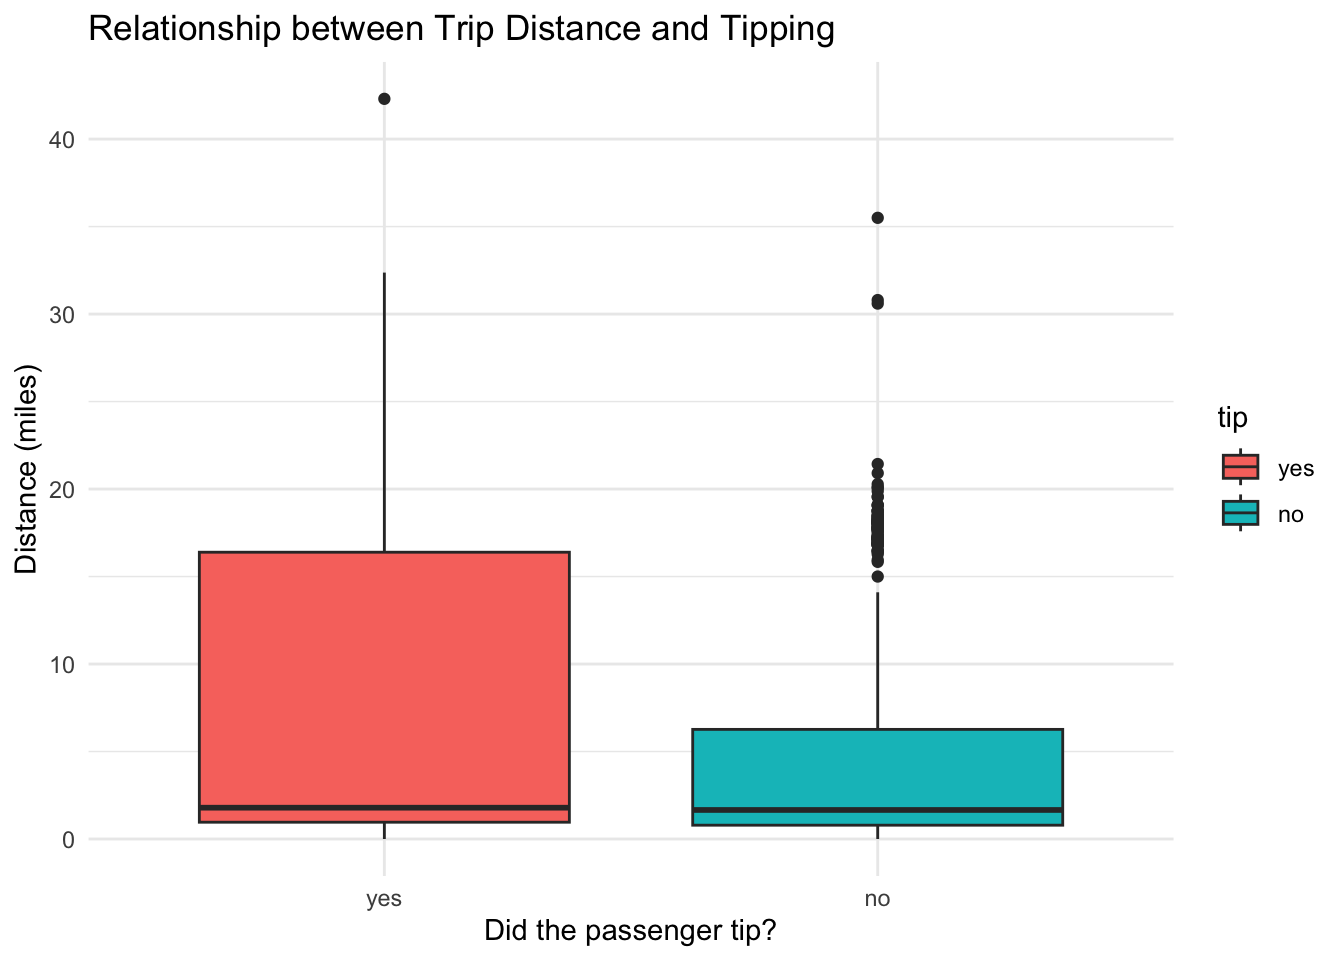
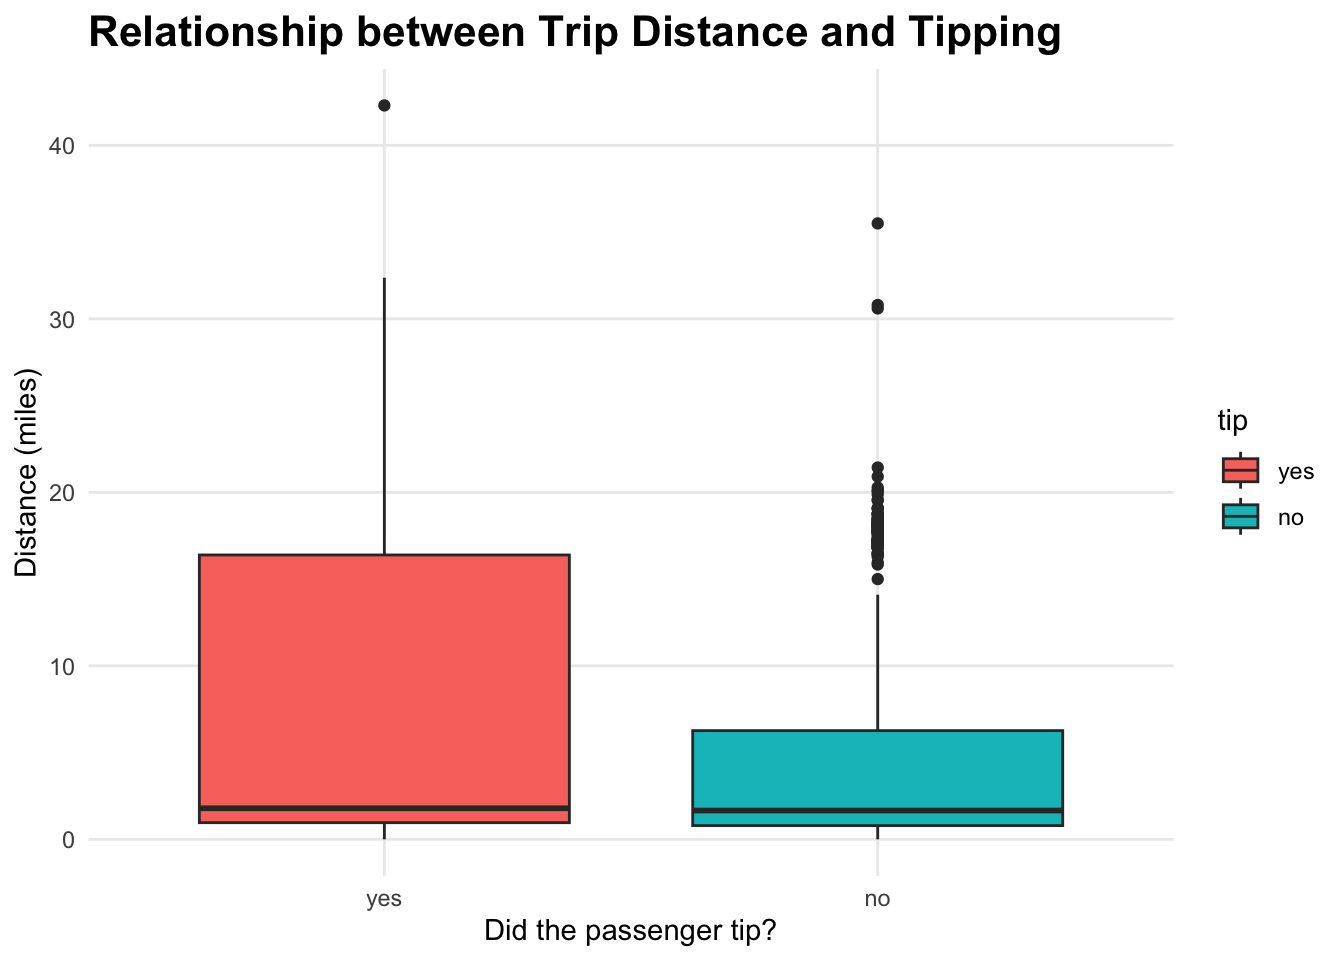
updating analysis of 2nd question

diff --git a/index.html b/index.html
@@ -154,7 +154,11 @@ $ hour     &lt;int&gt; 16, 8, 18, 8, 21, 23, 12, 6, 12, 14, 18, 11, 12, 19, 17, 
 <span id="cb5-4"><a href="#cb5-4" aria-hidden="true" tabindex="-1"></a>  <span class="fu">labs</span>(<span class="at">title =</span> <span class="st">"Relationship between Trip Distance and Tipping"</span>,</span>
 <span id="cb5-5"><a href="#cb5-5" aria-hidden="true" tabindex="-1"></a>       <span class="at">x =</span> <span class="st">"Did the passenger tip?"</span>,</span>
 <span id="cb5-6"><a href="#cb5-6" aria-hidden="true" tabindex="-1"></a>       <span class="at">y =</span> <span class="st">"Distance (miles)"</span>) <span class="sc">+</span></span>
-<span id="cb5-7"><a href="#cb5-7" aria-hidden="true" tabindex="-1"></a>  <span class="fu">theme_minimal</span>()</span></code><button title="Copy to Clipboard" class="code-copy-button"><i class="bi"></i></button></pre></div>
+<span id="cb5-7"><a href="#cb5-7" aria-hidden="true" tabindex="-1"></a>  <span class="fu">theme_minimal</span>() <span class="sc">+</span></span>
+<span id="cb5-8"><a href="#cb5-8" aria-hidden="true" tabindex="-1"></a>  <span class="fu">theme</span>(</span>
+<span id="cb5-9"><a href="#cb5-9" aria-hidden="true" tabindex="-1"></a>    <span class="at">panel.grid.minor =</span> <span class="fu">element_blank</span>(),</span>
+<span id="cb5-10"><a href="#cb5-10" aria-hidden="true" tabindex="-1"></a>    <span class="at">plot.title =</span> <span class="fu">element_text</span>(<span class="at">face =</span> <span class="st">"bold"</span>, <span class="at">size =</span> <span class="dv">16</span>)</span>
+<span id="cb5-11"><a href="#cb5-11" aria-hidden="true" tabindex="-1"></a>  )</span></code><button title="Copy to Clipboard" class="code-copy-button"><i class="bi"></i></button></pre></div>
 <div class="cell-output-display">
 <div>
 <figure class="figure">
@@ -163,33 +167,87 @@ $ hour     &lt;int&gt; 16, 8, 18, 8, 21, 23, 12, 6, 12, 14, 18, 11, 12, 19, 17, 
 </div>
 </div>
 <div class="sourceCode cell-code" id="cb6"><pre class="sourceCode r code-with-copy"><code class="sourceCode r"><span id="cb6-1"><a href="#cb6-1" aria-hidden="true" tabindex="-1"></a><span class="co"># Summary Table</span></span>
-<span id="cb6-2"><a href="#cb6-2" aria-hidden="true" tabindex="-1"></a>mean_median_distance_tipping <span class="ot">&lt;-</span> taxi <span class="sc">%&gt;%</span></span>
-<span id="cb6-3"><a href="#cb6-3" aria-hidden="true" tabindex="-1"></a>  <span class="fu">group_by</span>(tip) <span class="sc">%&gt;%</span></span>
+<span id="cb6-2"><a href="#cb6-2" aria-hidden="true" tabindex="-1"></a>mean_median_distance_tipping <span class="ot">&lt;-</span> taxi <span class="sc">|&gt;</span></span>
+<span id="cb6-3"><a href="#cb6-3" aria-hidden="true" tabindex="-1"></a>  <span class="fu">group_by</span>(tip) <span class="sc">|&gt;</span></span>
 <span id="cb6-4"><a href="#cb6-4" aria-hidden="true" tabindex="-1"></a>  <span class="fu">summarize</span>(<span class="at">mean_dist =</span> <span class="fu">mean</span>(distance, <span class="at">na.rm =</span> <span class="cn">TRUE</span>),</span>
 <span id="cb6-5"><a href="#cb6-5" aria-hidden="true" tabindex="-1"></a>            <span class="at">median_dist =</span> <span class="fu">median</span>(distance, <span class="at">na.rm =</span> <span class="cn">TRUE</span>),</span>
-<span id="cb6-6"><a href="#cb6-6" aria-hidden="true" tabindex="-1"></a>            <span class="at">n =</span> <span class="fu">n</span>())</span>
-<span id="cb6-7"><a href="#cb6-7" aria-hidden="true" tabindex="-1"></a></span>
-<span id="cb6-8"><a href="#cb6-8" aria-hidden="true" tabindex="-1"></a><span class="co"># Assigning values</span></span>
-<span id="cb6-9"><a href="#cb6-9" aria-hidden="true" tabindex="-1"></a>mean_distance_y <span class="ot">&lt;-</span> mean_median_distance_tipping <span class="sc">|&gt;</span> <span class="fu">filter</span>(tip <span class="sc">==</span> <span class="st">"yes"</span>) <span class="sc">|&gt;</span> <span class="fu">pull</span>(mean_dist)</span>
-<span id="cb6-10"><a href="#cb6-10" aria-hidden="true" tabindex="-1"></a>mean_distance_n <span class="ot">&lt;-</span>mean_median_distance_tipping <span class="sc">|&gt;</span> <span class="fu">filter</span>(tip <span class="sc">==</span> <span class="st">"no"</span>) <span class="sc">|&gt;</span> <span class="fu">pull</span>(mean_dist)</span>
-<span id="cb6-11"><a href="#cb6-11" aria-hidden="true" tabindex="-1"></a>med_dist_y <span class="ot">&lt;-</span>mean_median_distance_tipping <span class="sc">|&gt;</span> <span class="fu">filter</span>(tip <span class="sc">==</span> <span class="st">"yes"</span>) <span class="sc">|&gt;</span> <span class="fu">pull</span>(median_dist)</span>
-<span id="cb6-12"><a href="#cb6-12" aria-hidden="true" tabindex="-1"></a>med_dist_n <span class="ot">&lt;-</span>mean_median_distance_tipping <span class="sc">|&gt;</span> <span class="fu">filter</span>(tip <span class="sc">==</span> <span class="st">"no"</span>) <span class="sc">|&gt;</span> <span class="fu">pull</span>(median_dist)</span></code><button title="Copy to Clipboard" class="code-copy-button"><i class="bi"></i></button></pre></div>
+<span id="cb6-6"><a href="#cb6-6" aria-hidden="true" tabindex="-1"></a>            <span class="at">n =</span> <span class="fu">n</span>())</span></code><button title="Copy to Clipboard" class="code-copy-button"><i class="bi"></i></button></pre></div>
 </div>
 <section id="analysis-of-distance-vs.-tipping" class="level3">
 <h3 class="anchored" data-anchor-id="analysis-of-distance-vs.-tipping">Analysis of Distance vs.&nbsp;Tipping</h3>
 <p>There is a linear relationship between the distance traveled and whether a passenger tips for longer distances.</p>
 <ol type="1">
-<li><p><strong>Higher Average Distance:</strong> Passengers who tipped traveled an average of <strong>6.37 miles</strong>, which is nearly <strong>39.35% more</strong> than those who did not tip (<strong>4.57 miles</strong>).</p></li>
-<li><p><strong>The Median Gap:</strong> Compared to the means, the medians are much closer (<strong>1.79 v/s 1.66</strong>) . This suggests that the “yes” group (those who tipped) mostly travelled long trips (outliers) that drives the average up.</p></li>
-<li><p><strong>Initial Conclusion:</strong> Tipping appears more common on longer trips. This makes sense intuitively—passengers may feel that a longer commitment of the driver’s time warrants a tip, or the higher total fare makes a percentage-based tip feel more standard.</p></li>
+<li><p>Passengers who tipped traveled an average of <strong>6.37 miles</strong>, which is nearly <strong>39.35% more</strong> than those who did not tip (<strong>4.57 miles</strong>).</p></li>
+<li><p>Compared to the means, the medians are much closer (<strong>1.79 v/s 1.66</strong>) . This suggests that the “yes” group (those who tipped) mostly travelled long trips (outliers) that drives the average up.</p></li>
+<li><p>Therefore, tipping seems to be more common on longer trips.</p></li>
 </ol>
 </section>
 </section>
 <section id="do-taxi-passengers-tend-to-tip-more-for-the-company-chicago-independents-than-the-other-companies" class="level2">
 <h2 class="anchored" data-anchor-id="do-taxi-passengers-tend-to-tip-more-for-the-company-chicago-independents-than-the-other-companies">Do taxi passengers tend to tip more for the company Chicago Independents than the other companies?</h2>
-</section>
-<section id="section" class="level2">
-<h2 class="anchored" data-anchor-id="section"></h2>
+<div class="cell">
+<div class="sourceCode cell-code" id="cb7"><pre class="sourceCode r code-with-copy"><code class="sourceCode r"><span id="cb7-1"><a href="#cb7-1" aria-hidden="true" tabindex="-1"></a><span class="co"># 1. Calculate the overall city average rate (as a decimal)</span></span>
+<span id="cb7-2"><a href="#cb7-2" aria-hidden="true" tabindex="-1"></a>overall_rate <span class="ot">&lt;-</span> <span class="fu">mean</span>(taxi<span class="sc">$</span>tip <span class="sc">==</span> <span class="st">"yes"</span>)</span>
+<span id="cb7-3"><a href="#cb7-3" aria-hidden="true" tabindex="-1"></a></span>
+<span id="cb7-4"><a href="#cb7-4" aria-hidden="true" tabindex="-1"></a><span class="co"># 2. Calculate the tipping rate per company for the labels</span></span>
+<span id="cb7-5"><a href="#cb7-5" aria-hidden="true" tabindex="-1"></a>company_stats <span class="ot">&lt;-</span> taxi <span class="sc">|&gt;</span></span>
+<span id="cb7-6"><a href="#cb7-6" aria-hidden="true" tabindex="-1"></a>  <span class="fu">group_by</span>(company) <span class="sc">|&gt;</span></span>
+<span id="cb7-7"><a href="#cb7-7" aria-hidden="true" tabindex="-1"></a>  <span class="fu">summarize</span>(</span>
+<span id="cb7-8"><a href="#cb7-8" aria-hidden="true" tabindex="-1"></a>    <span class="at">total_rides =</span> <span class="fu">n</span>(),</span>
+<span id="cb7-9"><a href="#cb7-9" aria-hidden="true" tabindex="-1"></a>    <span class="at">yes_count =</span> <span class="fu">sum</span>(tip <span class="sc">==</span> <span class="st">"yes"</span>),</span>
+<span id="cb7-10"><a href="#cb7-10" aria-hidden="true" tabindex="-1"></a>    <span class="at">tip_rate =</span> yes_count <span class="sc">/</span> total_rides</span>
+<span id="cb7-11"><a href="#cb7-11" aria-hidden="true" tabindex="-1"></a>  )</span>
+<span id="cb7-12"><a href="#cb7-12" aria-hidden="true" tabindex="-1"></a></span>
+<span id="cb7-13"><a href="#cb7-13" aria-hidden="true" tabindex="-1"></a><span class="co"># 3. Create the Proportional Plot</span></span>
+<span id="cb7-14"><a href="#cb7-14" aria-hidden="true" tabindex="-1"></a><span class="fu">ggplot</span>(taxi, <span class="fu">aes</span>(<span class="at">y =</span> company, <span class="at">fill =</span> tip)) <span class="sc">+</span></span>
+<span id="cb7-15"><a href="#cb7-15" aria-hidden="true" tabindex="-1"></a>  <span class="co"># Create the proportional bars</span></span>
+<span id="cb7-16"><a href="#cb7-16" aria-hidden="true" tabindex="-1"></a>  <span class="fu">geom_bar</span>(<span class="at">position =</span> <span class="st">"fill"</span>) <span class="sc">+</span></span>
+<span id="cb7-17"><a href="#cb7-17" aria-hidden="true" tabindex="-1"></a>  <span class="co"># Add the tip rate labels onto each bar</span></span>
+<span id="cb7-18"><a href="#cb7-18" aria-hidden="true" tabindex="-1"></a>  <span class="fu">geom_text</span>(</span>
+<span id="cb7-19"><a href="#cb7-19" aria-hidden="true" tabindex="-1"></a>    <span class="at">data =</span> company_stats,</span>
+<span id="cb7-20"><a href="#cb7-20" aria-hidden="true" tabindex="-1"></a>    <span class="fu">aes</span>(<span class="at">y =</span> company, <span class="at">x =</span> <span class="fl">0.5</span>, <span class="at">label =</span> <span class="fu">percent</span>(tip_rate, <span class="at">accuracy =</span> <span class="fl">0.1</span>)),</span>
+<span id="cb7-21"><a href="#cb7-21" aria-hidden="true" tabindex="-1"></a>    <span class="at">inherit.aes =</span> <span class="cn">FALSE</span>,</span>
+<span id="cb7-22"><a href="#cb7-22" aria-hidden="true" tabindex="-1"></a>    <span class="at">color =</span> <span class="st">"white"</span>,</span>
+<span id="cb7-23"><a href="#cb7-23" aria-hidden="true" tabindex="-1"></a>    <span class="at">fontface =</span> <span class="st">"bold"</span>,</span>
+<span id="cb7-24"><a href="#cb7-24" aria-hidden="true" tabindex="-1"></a>    <span class="at">size =</span> <span class="dv">4</span></span>
+<span id="cb7-25"><a href="#cb7-25" aria-hidden="true" tabindex="-1"></a>  ) <span class="sc">+</span></span>
+<span id="cb7-26"><a href="#cb7-26" aria-hidden="true" tabindex="-1"></a>  <span class="co"># Add the vertical line for the city average</span></span>
+<span id="cb7-27"><a href="#cb7-27" aria-hidden="true" tabindex="-1"></a>  <span class="fu">geom_vline</span>(<span class="at">xintercept =</span> overall_rate, <span class="at">linetype =</span> <span class="st">"dashed"</span>, <span class="at">color =</span> <span class="st">"white"</span>, <span class="at">size =</span> <span class="dv">1</span>) <span class="sc">+</span></span>
+<span id="cb7-28"><a href="#cb7-28" aria-hidden="true" tabindex="-1"></a>  <span class="co"># Annotate the line with the numerical value</span></span>
+<span id="cb7-29"><a href="#cb7-29" aria-hidden="true" tabindex="-1"></a>  <span class="fu">annotate</span>(</span>
+<span id="cb7-30"><a href="#cb7-30" aria-hidden="true" tabindex="-1"></a>    <span class="st">"text"</span>, </span>
+<span id="cb7-31"><a href="#cb7-31" aria-hidden="true" tabindex="-1"></a>    <span class="at">x =</span> overall_rate, </span>
+<span id="cb7-32"><a href="#cb7-32" aria-hidden="true" tabindex="-1"></a>    <span class="at">y =</span> <span class="fl">0.5</span>, </span>
+<span id="cb7-33"><a href="#cb7-33" aria-hidden="true" tabindex="-1"></a>    <span class="at">label =</span> <span class="fu">paste0</span>(<span class="st">"City Average = "</span>, <span class="fu">percent</span>(overall_rate, <span class="at">accuracy =</span> <span class="fl">0.1</span>)),</span>
+<span id="cb7-34"><a href="#cb7-34" aria-hidden="true" tabindex="-1"></a>    <span class="at">color =</span> <span class="st">"black"</span>, </span>
+<span id="cb7-35"><a href="#cb7-35" aria-hidden="true" tabindex="-1"></a>    <span class="at">vjust =</span> <span class="sc">-</span><span class="fl">0.5</span>, </span>
+<span id="cb7-36"><a href="#cb7-36" aria-hidden="true" tabindex="-1"></a>    <span class="at">hjust =</span> <span class="sc">-</span><span class="fl">0.5</span>,</span>
+<span id="cb7-37"><a href="#cb7-37" aria-hidden="true" tabindex="-1"></a>    <span class="at">angle =</span> <span class="dv">90</span>,</span>
+<span id="cb7-38"><a href="#cb7-38" aria-hidden="true" tabindex="-1"></a>    <span class="at">fontface =</span> <span class="st">"bold"</span></span>
+<span id="cb7-39"><a href="#cb7-39" aria-hidden="true" tabindex="-1"></a>  ) <span class="sc">+</span></span>
+<span id="cb7-40"><a href="#cb7-40" aria-hidden="true" tabindex="-1"></a>  <span class="co"># Clean up scales and labels</span></span>
+<span id="cb7-41"><a href="#cb7-41" aria-hidden="true" tabindex="-1"></a>  <span class="fu">scale_x_continuous</span>(<span class="at">labels =</span> percent) <span class="sc">+</span></span>
+<span id="cb7-42"><a href="#cb7-42" aria-hidden="true" tabindex="-1"></a>  <span class="fu">scale_fill_manual</span>(<span class="at">values =</span> <span class="fu">c</span>(<span class="st">"no"</span> <span class="ot">=</span> <span class="st">"#E63946"</span>, <span class="st">"yes"</span> <span class="ot">=</span> <span class="st">"#2A9D8F"</span>)) <span class="sc">+</span> <span class="co"># Clean vector-style colors</span></span>
+<span id="cb7-43"><a href="#cb7-43" aria-hidden="true" tabindex="-1"></a>  <span class="fu">labs</span>(</span>
+<span id="cb7-44"><a href="#cb7-44" aria-hidden="true" tabindex="-1"></a>    <span class="at">title =</span> <span class="st">"Tipping Rate Comparison by Company"</span>,</span>
+<span id="cb7-45"><a href="#cb7-45" aria-hidden="true" tabindex="-1"></a>    <span class="at">subtitle =</span> <span class="st">"Is Chicago Independents outperforming the city average?"</span>,</span>
+<span id="cb7-46"><a href="#cb7-46" aria-hidden="true" tabindex="-1"></a>    <span class="at">x =</span> <span class="st">"Proportion of Trips"</span>,</span>
+<span id="cb7-47"><a href="#cb7-47" aria-hidden="true" tabindex="-1"></a>    <span class="at">y =</span> <span class="st">"Taxi Company"</span>,</span>
+<span id="cb7-48"><a href="#cb7-48" aria-hidden="true" tabindex="-1"></a>    <span class="at">fill =</span> <span class="st">"Tip Received"</span></span>
+<span id="cb7-49"><a href="#cb7-49" aria-hidden="true" tabindex="-1"></a>  ) <span class="sc">+</span></span>
+<span id="cb7-50"><a href="#cb7-50" aria-hidden="true" tabindex="-1"></a>  <span class="fu">theme_minimal</span>() <span class="sc">+</span></span>
+<span id="cb7-51"><a href="#cb7-51" aria-hidden="true" tabindex="-1"></a>  <span class="fu">theme</span>(</span>
+<span id="cb7-52"><a href="#cb7-52" aria-hidden="true" tabindex="-1"></a>    <span class="at">panel.grid.minor =</span> <span class="fu">element_blank</span>(),</span>
+<span id="cb7-53"><a href="#cb7-53" aria-hidden="true" tabindex="-1"></a>    <span class="at">plot.title =</span> <span class="fu">element_text</span>(<span class="at">face =</span> <span class="st">"bold"</span>, <span class="at">size =</span> <span class="dv">16</span>)</span>
+<span id="cb7-54"><a href="#cb7-54" aria-hidden="true" tabindex="-1"></a>  )</span></code><button title="Copy to Clipboard" class="code-copy-button"><i class="bi"></i></button></pre></div>
+<div class="cell-output-display">
+<div>
+<figure class="figure">
+<p><img src="index_files/figure-html/Analyse%20tips%20for%20each%20company-1.png" class="img-fluid figure-img" width="672"></p>
+</figure>
+</div>
+</div>
+</div>
 </section>
 <section id="your-own-question" class="level2">
 <h2 class="anchored" data-anchor-id="your-own-question">Your own question</h2>
